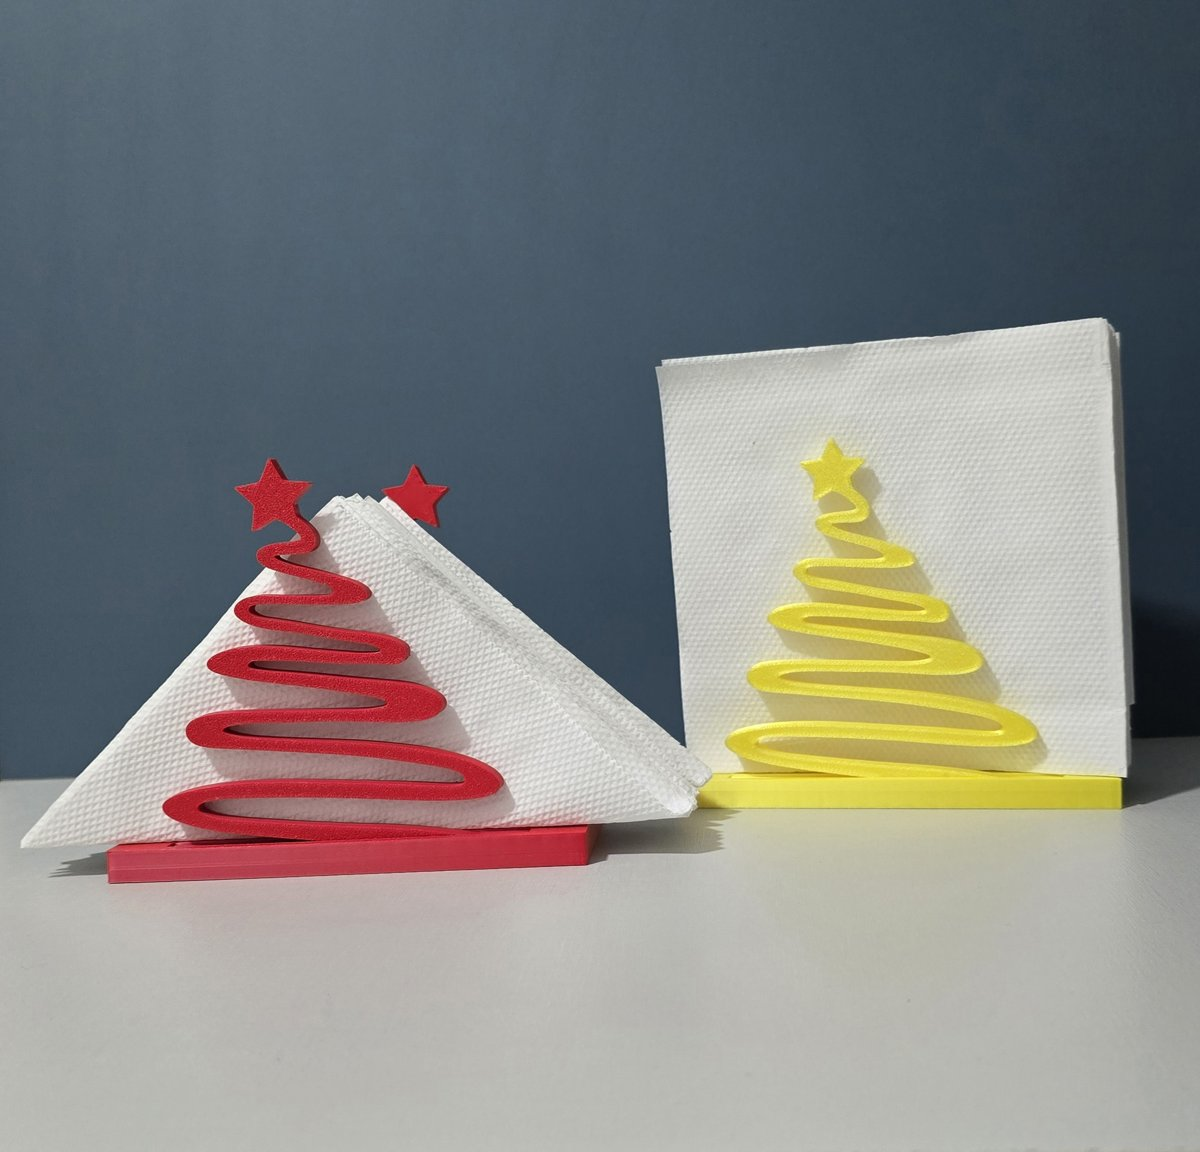
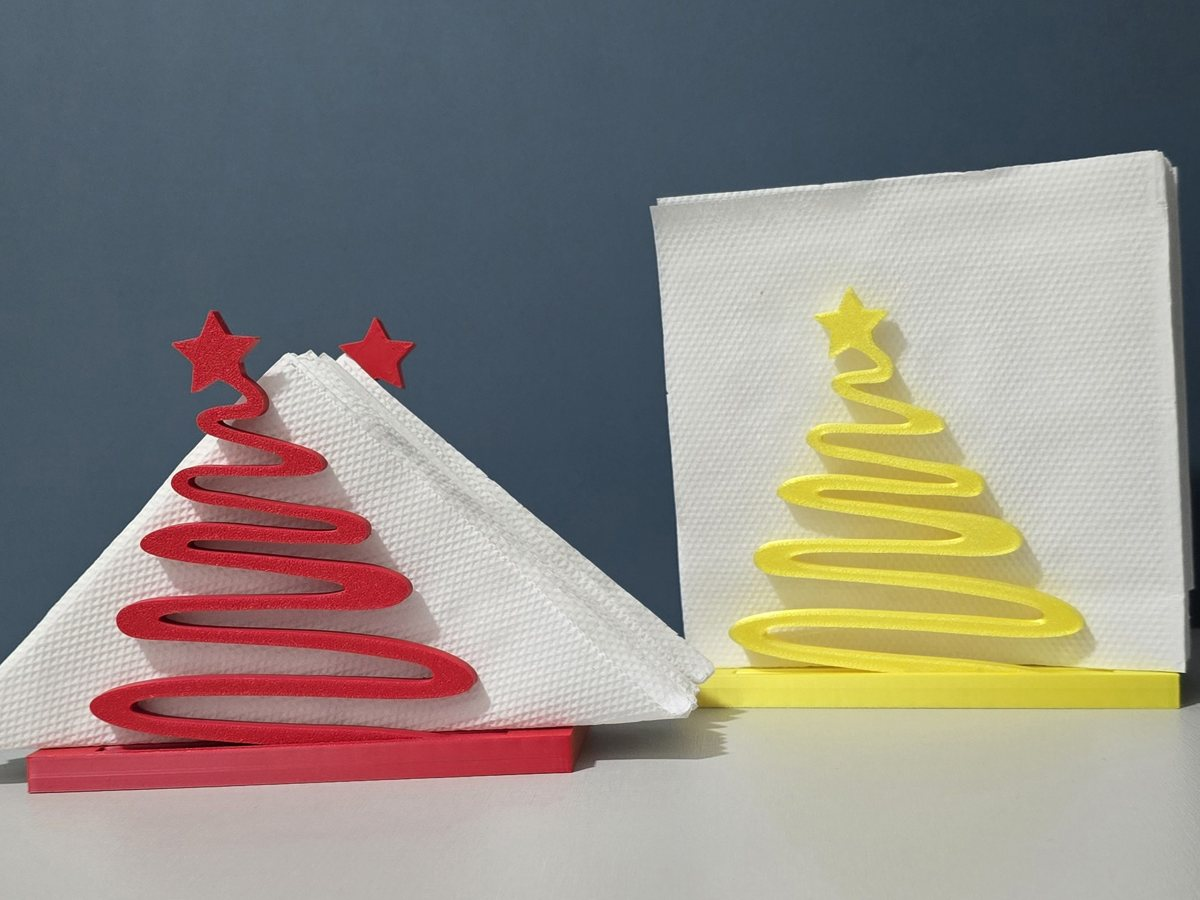
Enfeite de porta R$40, fotos do porta-guardanapo e cor só na capa
Claude-Session: https://claude.ai/code/session_01Jbs42XMTkcTf6mLDCmcAVJ

diff --git a/index.html b/index.html
@@ -120,10 +120,10 @@ const PRODUTOS = [
   { id:"porta-livros", nome:"Porta-livros", preco:20,
     descricao:"Mantém os livros em pé na estante, com uma silhueta que vira decoração.",
     fotos:[["img/porta-livros-1.jpg","Na estante"],["img/porta-livros-2.jpg","Detalhe do rosto, com óculos"]] },
-  { id:"enfeite-porta", nome:"Enfeite de porta de Natal", preco:null,
+  { id:"enfeite-porta", nome:"Enfeite de porta de Natal", preco:40,
     descricao:"Cantoneira colorida que se apoia no batente e deixa a entrada no clima de Natal.",
     fotos:[["img/enfeite-porta-1.jpg","Na porta"],["img/enfeite-porta-2.jpg","De pertinho"]] },
-  { id:"natal-mesa", nome:"Porta-guardanapo de Natal", preco:null, opcoes:[["Unidade",10],["Kit 3 cores",20],["Placa Feliz Natal",20],["Placa + porta-guardanapo",25]], empilhar:true, inteiras:true,
+  { id:"natal-mesa", nome:"Porta-guardanapo de Natal", preco:null, opcoes:[["Unidade",10],["Kit 3 cores",20],["Placa Feliz Natal",20],["Placa + porta-guardanapo",25]], empilhar:true,
     descricao:"Árvore em espiral para a mesa da ceia. Leve avulso, o kit com 3 em cores diferentes, ou combine com a placa Feliz Natal com rena.",
     fotos:[["img/natal-mesa-1.jpg","Kit cores"],["img/natal-mesa-2.jpg","Kit placa + porta-guardanapo"]] },
   { id:"esquilo", nome:"Porta-vela Esquilo", preco:null,
@@ -166,7 +166,7 @@ PRODUTOS.forEach((p,i)=>{
   sec.innerHTML = logoTopo.replace("{n}", String(i+1).padStart(2,"0")) +
     `<h2 class="titulo">${p.nome}</h2>
      <div class="fotos${p.empilhar?" empilhadas":""}${p.inteiras?" inteiras":""}${p.alto?" altas":""}">${p.fotos.map(([src,leg,pos])=>`<figure><img src="${src}" alt="${p.nome} – ${leg}" loading="lazy"${pos?` style="object-position:${pos}"`:""}><figcaption>${leg}</figcaption></figure>`).join("")}</div>
-     <div class="info${p.opcoes?" com-opcoes":""}"><div><p class="descricao">${p.descricao}</p><span class="tag-cor">Você escolhe a cor</span></div>${preco}</div>${pedir}`;
+     <div class="info${p.opcoes?" com-opcoes":""}"><div><p class="descricao">${p.descricao}</p></div>${preco}</div>${pedir}`;
   cat.appendChild(sec);
 });
 
